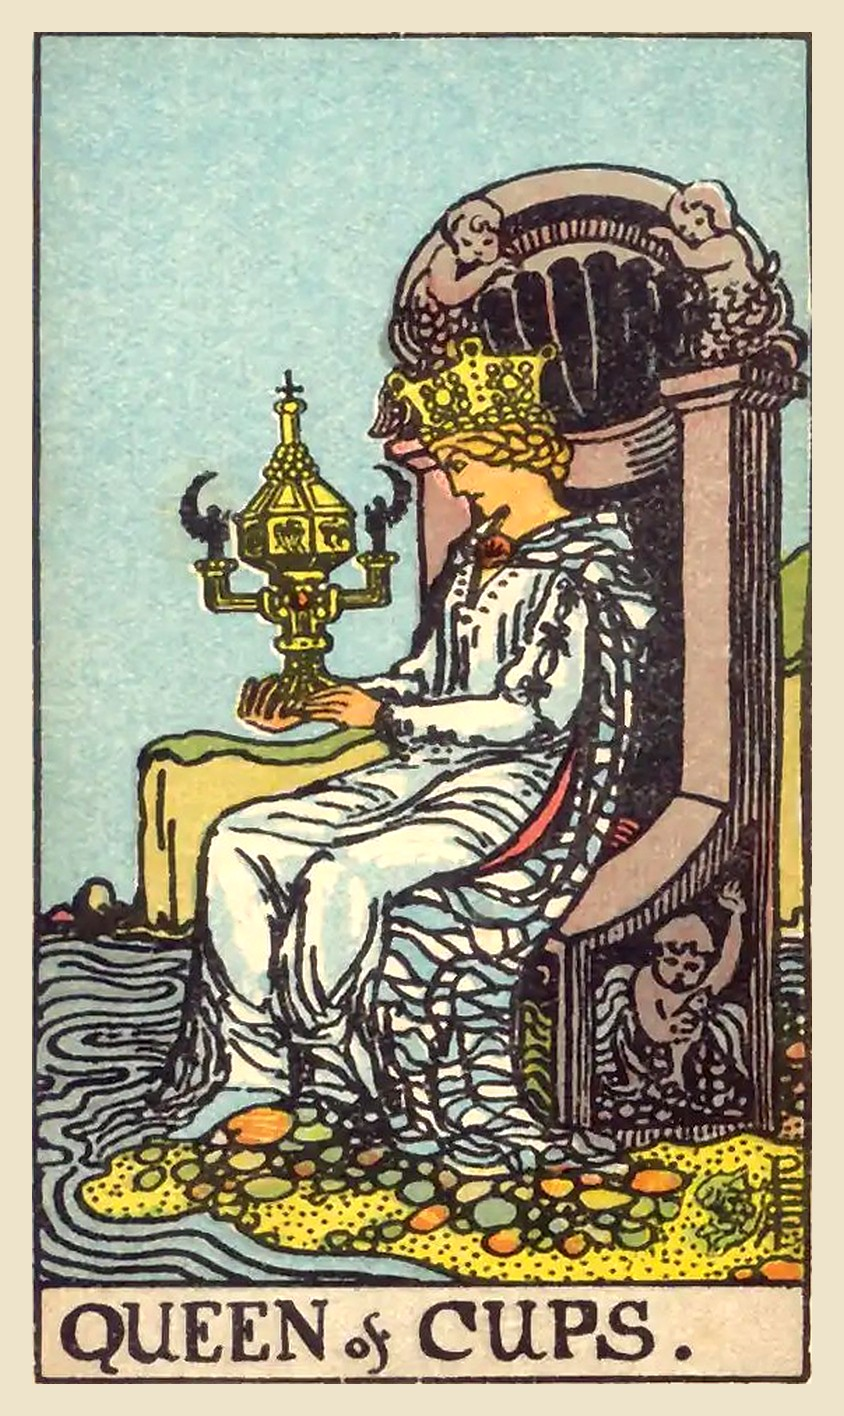
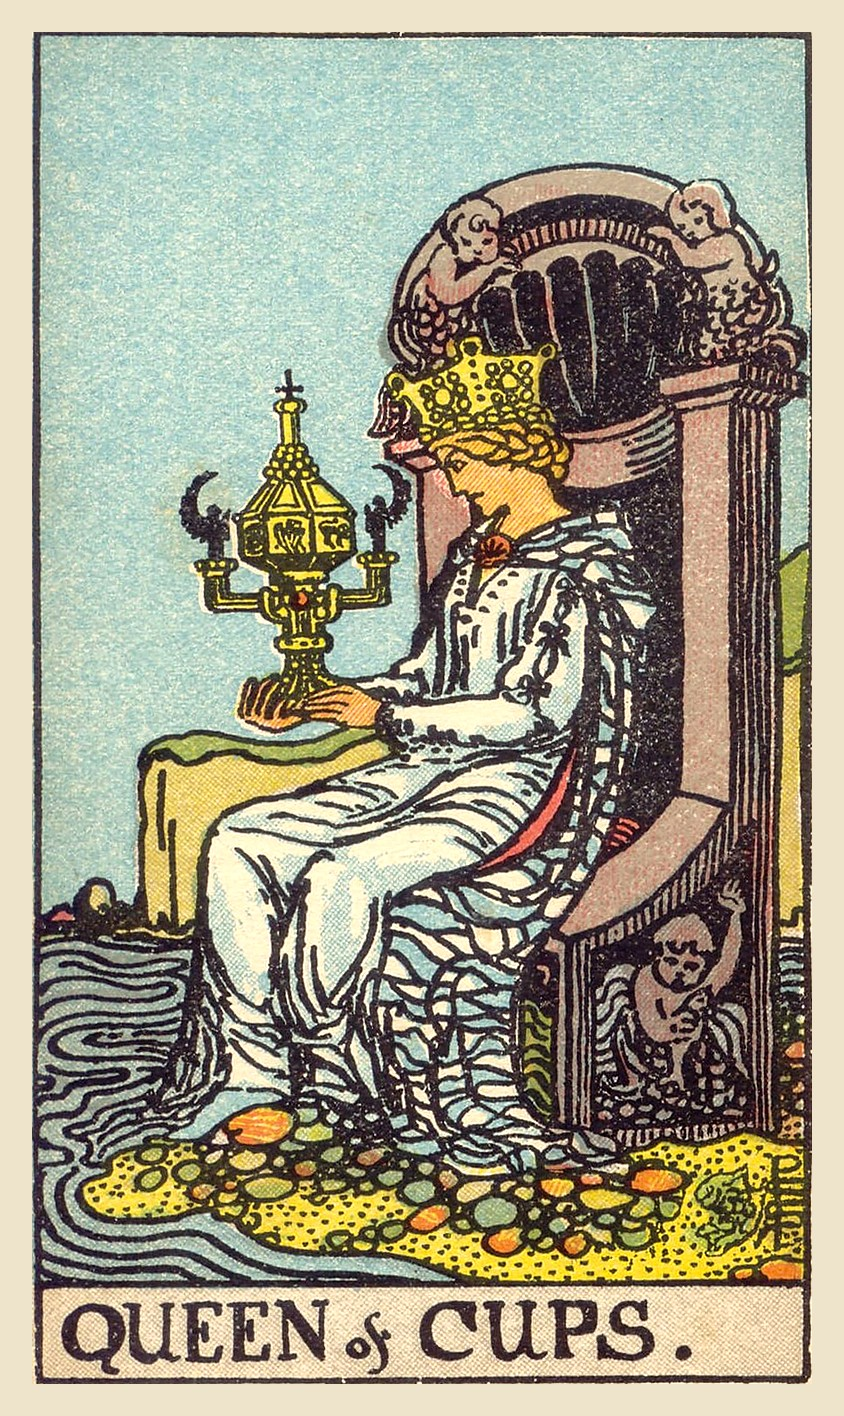
Upgrade 28 more cards to full-size scans (49 of 78)
Claude-Session: https://claude.ai/code/session_01VaK2LxMS9AmaPMg3JXPAQf

diff --git a/content/tarot/images/CREDITS.md b/content/tarot/images/CREDITS.md
@@ -45,34 +45,34 @@ line on the card edge and must not be used.
 | The Moon | `major-18-the-moon.jpg` | [RWS1909 - 18 Moon.jpeg](https://commons.wikimedia.org/wiki/File:RWS1909_-_18_Moon.jpeg) | 1909 | Public domain | commons |
 | The Sun | `major-19-the-sun.jpg` | [RWS1909 - 19 Sun.jpeg](https://commons.wikimedia.org/wiki/File:RWS1909_-_19_Sun.jpeg) | 1909 | Public domain | commons |
 | Judgement | `major-20-judgement.jpg` | [RWS1909 - 20 Judgement.jpeg](https://commons.wikimedia.org/wiki/File:RWS1909_-_20_Judgement.jpeg) | 1909 | Public domain | commons |
-| The World | `major-21-the-world.jpg` | [RWS1909 - 21 World.jpeg](https://commons.wikimedia.org/wiki/File:RWS1909_-_21_World.jpeg) | 1909 | Public domain | fallback |
-| Ace of Cups | `cups-01.jpg` | [RWS1909 - Cups 01.jpeg](https://commons.wikimedia.org/wiki/File:RWS1909_-_Cups_01.jpeg) | 1909 | Public domain | fallback |
-| Two of Cups | `cups-02.jpg` | [RWS1909 - Cups 02.jpeg](https://commons.wikimedia.org/wiki/File:RWS1909_-_Cups_02.jpeg) | 1909 | Public domain | fallback |
-| Three of Cups | `cups-03.jpg` | [RWS1909 - Cups 03.jpeg](https://commons.wikimedia.org/wiki/File:RWS1909_-_Cups_03.jpeg) | 1909 | Public domain | fallback |
-| Four of Cups | `cups-04.jpg` | [RWS1909 - Cups 04.jpeg](https://commons.wikimedia.org/wiki/File:RWS1909_-_Cups_04.jpeg) | 1909 | Public domain | fallback |
-| Five of Cups | `cups-05.jpg` | [RWS1909 - Cups 05.jpeg](https://commons.wikimedia.org/wiki/File:RWS1909_-_Cups_05.jpeg) | 1909 | Public domain | fallback |
-| Six of Cups | `cups-06.jpg` | [RWS1909 - Cups 06.jpeg](https://commons.wikimedia.org/wiki/File:RWS1909_-_Cups_06.jpeg) | 1909 | Public domain | fallback |
-| Seven of Cups | `cups-07.jpg` | [RWS1909 - Cups 07.jpeg](https://commons.wikimedia.org/wiki/File:RWS1909_-_Cups_07.jpeg) | 1909 | Public domain | fallback |
-| Eight of Cups | `cups-08.jpg` | [RWS1909 - Cups 08.jpeg](https://commons.wikimedia.org/wiki/File:RWS1909_-_Cups_08.jpeg) | 1909 | Public domain | fallback |
-| Nine of Cups | `cups-09.jpg` | [RWS1909 - Cups 09.jpeg](https://commons.wikimedia.org/wiki/File:RWS1909_-_Cups_09.jpeg) | 1909 | Public domain | fallback |
-| Ten of Cups | `cups-10.jpg` | [RWS1909 - Cups 10.jpeg](https://commons.wikimedia.org/wiki/File:RWS1909_-_Cups_10.jpeg) | 1909 | Public domain | fallback |
-| Page of Cups | `cups-page.jpg` | [RWS1909 - Cups 11.jpeg](https://commons.wikimedia.org/wiki/File:RWS1909_-_Cups_11.jpeg) | 1909 | Public domain | fallback |
-| Knight of Cups | `cups-knight.jpg` | [RWS1909 - Cups 12.jpeg](https://commons.wikimedia.org/wiki/File:RWS1909_-_Cups_12.jpeg) | 1909 | Public domain | fallback |
-| Queen of Cups | `cups-queen.jpg` | [RWS1909 - Cups 13.jpeg](https://commons.wikimedia.org/wiki/File:RWS1909_-_Cups_13.jpeg) | 1909 | Public domain | fallback |
-| King of Cups | `cups-king.jpg` | [RWS1909 - Cups 14.jpeg](https://commons.wikimedia.org/wiki/File:RWS1909_-_Cups_14.jpeg) | 1909 | Public domain | fallback |
-| Ace of Pentacles | `pentacles-01.jpg` | [RWS1909 - Pentacles 01.jpeg](https://commons.wikimedia.org/wiki/File:RWS1909_-_Pentacles_01.jpeg) | 1909 | Public domain | fallback |
-| Two of Pentacles | `pentacles-02.jpg` | [RWS1909 - Pentacles 02.jpeg](https://commons.wikimedia.org/wiki/File:RWS1909_-_Pentacles_02.jpeg) | 1909 | Public domain | fallback |
-| Three of Pentacles | `pentacles-03.jpg` | [RWS1909 - Pentacles 03.jpeg](https://commons.wikimedia.org/wiki/File:RWS1909_-_Pentacles_03.jpeg) | 1909 | Public domain | fallback |
-| Four of Pentacles | `pentacles-04.jpg` | [RWS1909 - Pentacles 04.jpeg](https://commons.wikimedia.org/wiki/File:RWS1909_-_Pentacles_04.jpeg) | 1909 | Public domain | fallback |
-| Five of Pentacles | `pentacles-05.jpg` | [RWS1909 - Pentacles 05.jpeg](https://commons.wikimedia.org/wiki/File:RWS1909_-_Pentacles_05.jpeg) | 1909 | Public domain | fallback |
-| Six of Pentacles | `pentacles-06.jpg` | [RWS1909 - Pentacles 06.jpeg](https://commons.wikimedia.org/wiki/File:RWS1909_-_Pentacles_06.jpeg) | 1909 | Public domain | fallback |
-| Seven of Pentacles | `pentacles-07.jpg` | [RWS1909 - Pentacles 07.jpeg](https://commons.wikimedia.org/wiki/File:RWS1909_-_Pentacles_07.jpeg) | 1909 | Public domain | fallback |
-| Eight of Pentacles | `pentacles-08.jpg` | [RWS1909 - Pentacles 08.jpeg](https://commons.wikimedia.org/wiki/File:RWS1909_-_Pentacles_08.jpeg) | 1909 | Public domain | fallback |
-| Nine of Pentacles | `pentacles-09.jpg` | [RWS1909 - Pentacles 09.jpeg](https://commons.wikimedia.org/wiki/File:RWS1909_-_Pentacles_09.jpeg) | 1909 | Public domain | fallback |
-| Ten of Pentacles | `pentacles-10.jpg` | [RWS1909 - Pentacles 10.jpeg](https://commons.wikimedia.org/wiki/File:RWS1909_-_Pentacles_10.jpeg) | 1909 | Public domain | fallback |
-| Page of Pentacles | `pentacles-page.jpg` | [RWS1909 - Pentacles 11.jpeg](https://commons.wikimedia.org/wiki/File:RWS1909_-_Pentacles_11.jpeg) | 1909 | Public domain | fallback |
-| Knight of Pentacles | `pentacles-knight.jpg` | [RWS1909 - Pentacles 12.jpeg](https://commons.wikimedia.org/wiki/File:RWS1909_-_Pentacles_12.jpeg) | 1909 | Public domain | fallback |
-| Queen of Pentacles | `pentacles-queen.jpg` | [RWS1909 - Pentacles 13.jpeg](https://commons.wikimedia.org/wiki/File:RWS1909_-_Pentacles_13.jpeg) | 1909 | Public domain | fallback |
+| The World | `major-21-the-world.jpg` | [RWS1909 - 21 World.jpeg](https://commons.wikimedia.org/wiki/File:RWS1909_-_21_World.jpeg) | 1909 | Public domain | commons |
+| Ace of Cups | `cups-01.jpg` | [RWS1909 - Cups 01.jpeg](https://commons.wikimedia.org/wiki/File:RWS1909_-_Cups_01.jpeg) | 1909 | Public domain | commons |
+| Two of Cups | `cups-02.jpg` | [RWS1909 - Cups 02.jpeg](https://commons.wikimedia.org/wiki/File:RWS1909_-_Cups_02.jpeg) | 1909 | Public domain | commons |
+| Three of Cups | `cups-03.jpg` | [RWS1909 - Cups 03.jpeg](https://commons.wikimedia.org/wiki/File:RWS1909_-_Cups_03.jpeg) | 1909 | Public domain | commons |
+| Four of Cups | `cups-04.jpg` | [RWS1909 - Cups 04.jpeg](https://commons.wikimedia.org/wiki/File:RWS1909_-_Cups_04.jpeg) | 1909 | Public domain | commons |
+| Five of Cups | `cups-05.jpg` | [RWS1909 - Cups 05.jpeg](https://commons.wikimedia.org/wiki/File:RWS1909_-_Cups_05.jpeg) | 1909 | Public domain | commons |
+| Six of Cups | `cups-06.jpg` | [RWS1909 - Cups 06.jpeg](https://commons.wikimedia.org/wiki/File:RWS1909_-_Cups_06.jpeg) | 1909 | Public domain | commons |
+| Seven of Cups | `cups-07.jpg` | [RWS1909 - Cups 07.jpeg](https://commons.wikimedia.org/wiki/File:RWS1909_-_Cups_07.jpeg) | 1909 | Public domain | commons |
+| Eight of Cups | `cups-08.jpg` | [RWS1909 - Cups 08.jpeg](https://commons.wikimedia.org/wiki/File:RWS1909_-_Cups_08.jpeg) | 1909 | Public domain | commons |
+| Nine of Cups | `cups-09.jpg` | [RWS1909 - Cups 09.jpeg](https://commons.wikimedia.org/wiki/File:RWS1909_-_Cups_09.jpeg) | 1909 | Public domain | commons |
+| Ten of Cups | `cups-10.jpg` | [RWS1909 - Cups 10.jpeg](https://commons.wikimedia.org/wiki/File:RWS1909_-_Cups_10.jpeg) | 1909 | Public domain | commons |
+| Page of Cups | `cups-page.jpg` | [RWS1909 - Cups 11.jpeg](https://commons.wikimedia.org/wiki/File:RWS1909_-_Cups_11.jpeg) | 1909 | Public domain | commons |
+| Knight of Cups | `cups-knight.jpg` | [RWS1909 - Cups 12.jpeg](https://commons.wikimedia.org/wiki/File:RWS1909_-_Cups_12.jpeg) | 1909 | Public domain | commons |
+| Queen of Cups | `cups-queen.jpg` | [RWS1909 - Cups 13.jpeg](https://commons.wikimedia.org/wiki/File:RWS1909_-_Cups_13.jpeg) | 1909 | Public domain | commons |
+| King of Cups | `cups-king.jpg` | [RWS1909 - Cups 14.jpeg](https://commons.wikimedia.org/wiki/File:RWS1909_-_Cups_14.jpeg) | 1909 | Public domain | commons |
+| Ace of Pentacles | `pentacles-01.jpg` | [RWS1909 - Pentacles 01.jpeg](https://commons.wikimedia.org/wiki/File:RWS1909_-_Pentacles_01.jpeg) | 1909 | Public domain | commons |
+| Two of Pentacles | `pentacles-02.jpg` | [RWS1909 - Pentacles 02.jpeg](https://commons.wikimedia.org/wiki/File:RWS1909_-_Pentacles_02.jpeg) | 1909 | Public domain | commons |
+| Three of Pentacles | `pentacles-03.jpg` | [RWS1909 - Pentacles 03.jpeg](https://commons.wikimedia.org/wiki/File:RWS1909_-_Pentacles_03.jpeg) | 1909 | Public domain | commons |
+| Four of Pentacles | `pentacles-04.jpg` | [RWS1909 - Pentacles 04.jpeg](https://commons.wikimedia.org/wiki/File:RWS1909_-_Pentacles_04.jpeg) | 1909 | Public domain | commons |
+| Five of Pentacles | `pentacles-05.jpg` | [RWS1909 - Pentacles 05.jpeg](https://commons.wikimedia.org/wiki/File:RWS1909_-_Pentacles_05.jpeg) | 1909 | Public domain | commons |
+| Six of Pentacles | `pentacles-06.jpg` | [RWS1909 - Pentacles 06.jpeg](https://commons.wikimedia.org/wiki/File:RWS1909_-_Pentacles_06.jpeg) | 1909 | Public domain | commons |
+| Seven of Pentacles | `pentacles-07.jpg` | [RWS1909 - Pentacles 07.jpeg](https://commons.wikimedia.org/wiki/File:RWS1909_-_Pentacles_07.jpeg) | 1909 | Public domain | commons |
+| Eight of Pentacles | `pentacles-08.jpg` | [RWS1909 - Pentacles 08.jpeg](https://commons.wikimedia.org/wiki/File:RWS1909_-_Pentacles_08.jpeg) | 1909 | Public domain | commons |
+| Nine of Pentacles | `pentacles-09.jpg` | [RWS1909 - Pentacles 09.jpeg](https://commons.wikimedia.org/wiki/File:RWS1909_-_Pentacles_09.jpeg) | 1909 | Public domain | commons |
+| Ten of Pentacles | `pentacles-10.jpg` | [RWS1909 - Pentacles 10.jpeg](https://commons.wikimedia.org/wiki/File:RWS1909_-_Pentacles_10.jpeg) | 1909 | Public domain | commons |
+| Page of Pentacles | `pentacles-page.jpg` | [RWS1909 - Pentacles 11.jpeg](https://commons.wikimedia.org/wiki/File:RWS1909_-_Pentacles_11.jpeg) | 1909 | Public domain | commons |
+| Knight of Pentacles | `pentacles-knight.jpg` | [RWS1909 - Pentacles 12.jpeg](https://commons.wikimedia.org/wiki/File:RWS1909_-_Pentacles_12.jpeg) | 1909 | Public domain | commons |
+| Queen of Pentacles | `pentacles-queen.jpg` | [RWS1909 - Pentacles 13.jpeg](https://commons.wikimedia.org/wiki/File:RWS1909_-_Pentacles_13.jpeg) | 1909 | Public domain | commons |
 | King of Pentacles | `pentacles-king.jpg` | [RWS1909 - Pentacles 14.jpeg](https://commons.wikimedia.org/wiki/File:RWS1909_-_Pentacles_14.jpeg) | 1909 | Public domain | fallback |
 | Ace of Swords | `swords-01.jpg` | [RWS1909 - Swords 01.jpeg](https://commons.wikimedia.org/wiki/File:RWS1909_-_Swords_01.jpeg) | 1909 | Public domain | fallback |
 | Two of Swords | `swords-02.jpg` | [RWS1909 - Swords 02.jpeg](https://commons.wikimedia.org/wiki/File:RWS1909_-_Swords_02.jpeg) | 1909 | Public domain | fallback |
